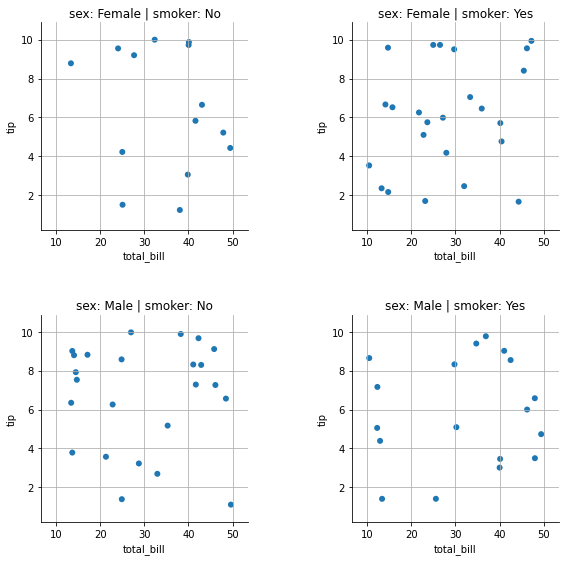
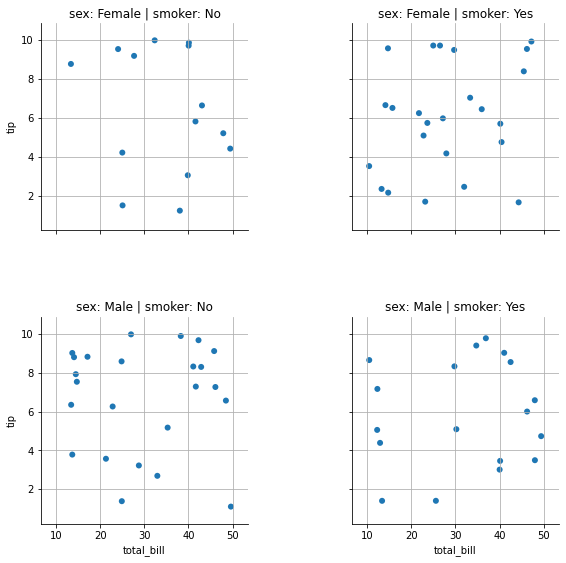
Fix exaggerated horizontal spacing in facet panels
Suppress redundant axis labels like ggplot2: only leftmost panels show
y-axis label + ticks, only bottom-row panels show x-axis label + ticks.
Non-edge panels use yaxis='bare' / xaxis='bare' so the plot area expands
to fill the available width. Applied to both facet_wrap and facet_grid.

https://claude.ai/code/session_01SmF4TLhsWWy5K2WYChHN7t

diff --git a/ggviews/facets.py b/ggviews/facets.py
@@ -191,6 +191,30 @@ class facet_wrap(Facet):
             if not panels:
                 return plot
 
+            n_panels = len(panels)
+            nrow_actual = int(np.ceil(n_panels / ncol))
+
+            # Suppress redundant axis labels (ggplot2 style):
+            # - Only leftmost panels keep the y-axis label + ticks
+            # - Only bottom-row panels keep the x-axis label + ticks
+            for idx, panel in enumerate(panels):
+                row_idx = idx // ncol
+                col_idx = idx % ncol
+                is_left = (col_idx == 0)
+                is_bottom = (row_idx == nrow_actual - 1) or (idx + ncol >= n_panels)
+                strip_opts = {}
+                if not is_left:
+                    strip_opts['ylabel'] = ''
+                    strip_opts['yaxis'] = 'bare'
+                if not is_bottom:
+                    strip_opts['xlabel'] = ''
+                    strip_opts['xaxis'] = 'bare'
+                if strip_opts:
+                    try:
+                        panels[idx] = panel.opts(**strip_opts)
+                    except Exception:
+                        pass
+
             # Build a flat Layout and set the column count once
             layout = hv.Layout(panels).cols(ncol)
             # Suppress HoloViews "A","B","C" subplot labels (not ggplot2 style)
@@ -281,6 +305,29 @@ class facet_grid(Facet):
 
             if not panels:
                 return plot
+
+            nrow_actual = len(row_vals)
+
+            # Suppress redundant axis labels (ggplot2 style):
+            # - Only leftmost panels keep y-axis label + ticks
+            # - Only bottom-row panels keep x-axis label + ticks
+            for idx, panel in enumerate(panels):
+                row_idx = idx // ncol
+                col_idx = idx % ncol
+                is_left = (col_idx == 0)
+                is_bottom = (row_idx == nrow_actual - 1)
+                strip_opts = {}
+                if not is_left:
+                    strip_opts['ylabel'] = ''
+                    strip_opts['yaxis'] = 'bare'
+                if not is_bottom:
+                    strip_opts['xlabel'] = ''
+                    strip_opts['xaxis'] = 'bare'
+                if strip_opts:
+                    try:
+                        panels[idx] = panel.opts(**strip_opts)
+                    except Exception:
+                        pass
 
             layout = hv.Layout(panels).cols(ncol)
             # Suppress HoloViews "A","B","C" subplot labels (not ggplot2 style)
